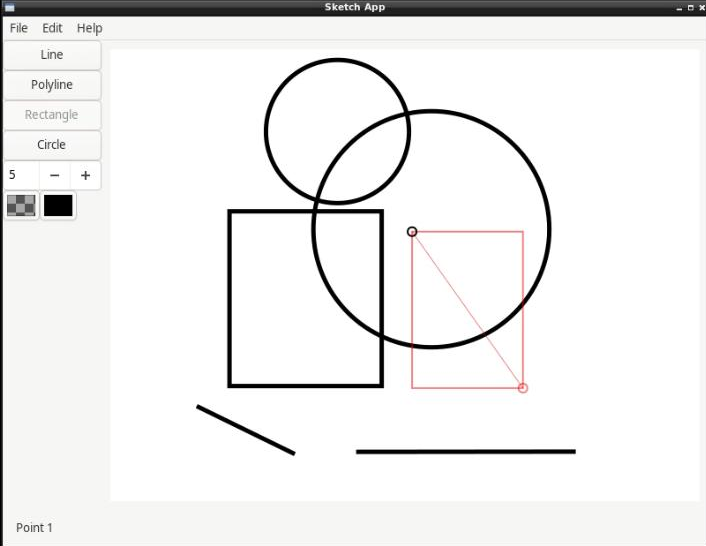
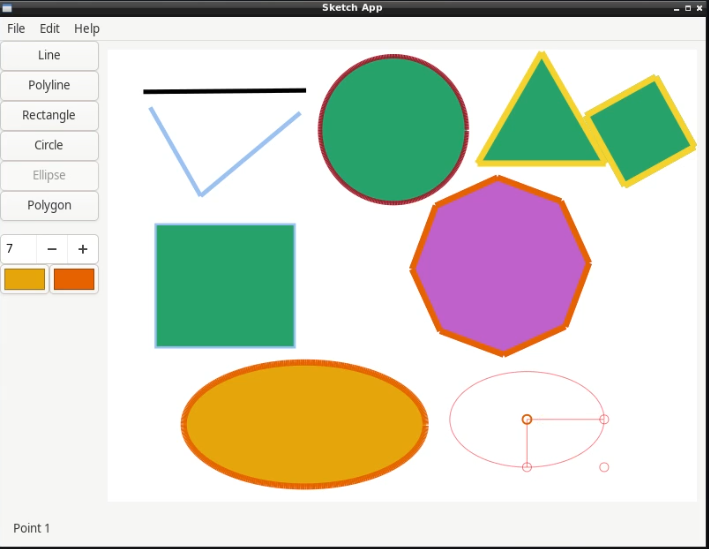
Upade.

diff --git a/src/sketchWindow.cpp b/src/sketchWindow.cpp
@@ -103,7 +103,7 @@ SketchWin::SketchWin() : Gtk::ApplicationWindow()
         m_Btn.back().signal_clicked().connect(sigc::bind(sigc::mem_fun(*this, &SketchWin::setShape), ShapeID(i)));
     }
 
-    m_ColorBtn_Fill.set_rgba(Gdk::RGBA(0.0, 0.0, 0.0, 0.0));
+    m_ColorBtn_Fill.set_rgba(Gdk::RGBA(1.0, 1.0, 1.0, 1.0));
     m_ColorBtn_Fill.set_visible(true);
     m_ColorBtn_Fill.set_can_focus(false);
     m_ColorBtn_Fill.set_tooltip_text("Fill color");
@@ -681,13 +681,17 @@ void SketchWin::save(std::string path)
     }
 
     if (extension == ".svg" || extension == ".SVG") {
-        text = "<svg>\n";
+        text = "<?xml version=\"1.0\" standalone=\"no\"?>\n"
+               "<svg width=\"" + num2str(m_DrawingArea.get_width())
+                + "\" height=\"" + num2str(m_DrawingArea.get_height()) + "\">\n";
         for (auto &e : m_Elements) {
             if (e.id != NONE) {
                 if (e.points.size() >= 2) {
                     std::string fillColor = e.fillColor.txt(false);
-                    std::string style = "style=\"stroke:rgb(" + e.strokeColor.txt(false) + ");stroke-width:"
-                            + num2str(e.strokeWidth) + "\" />";
+                    std::string style = "style=\"";
+                    style += (e.id == LINE || e.id == POLYLINE) ? "" : "fill:rgb(" + e.fillColor.txt(false) + ");";
+                    style += "stroke:rgb(" + e.strokeColor.txt(false)
+                            + ");stroke-width:" + num2str(e.strokeWidth) + "\" />\n";
                     if (e.id == LINE) {
                         text += "<line x1=\"" + num2str(e.points[0].X) + "\" y1=\"" + num2str(e.points[0].Y)
                                 + "\" x2=\"" + num2str(e.points[1].X) + "\" y2=\"" + num2str(e.points[1].Y) + "\"\n" + style;
@@ -702,17 +706,17 @@ void SketchWin::save(std::string path)
                                 + "\" rx=\"" + num2str(e.points[0].lengthX(e.points[1])) + "\" ry=\""
                                 + num2str(e.points[0].lengthY(e.points[1])) + "\"\n" + style;
                     }
-                    if (e.id == LINE || e.id == POLYLINE) {
+                    if (e.id == POLYLINE) {
                         text += "<polyline points=\"";
                         for (const auto &p : e.points) {
-                            text +=  point2str(p);
+                            text +=  point2str(p, false)  + " ";
                         }
                         text += + "\"\n" + style;
                     }
                     if (e.id == POLYGON) {
                         text += "<polygon points=\"";
                         for (size_t i = 1; i < e.points.size(); i++) {
-                            text +=  point2str(e.points[i]) + " ";
+                            text +=  point2str(e.points[i], false) + " ";
                         }
                         text += "\"\n" + style;
                     }
